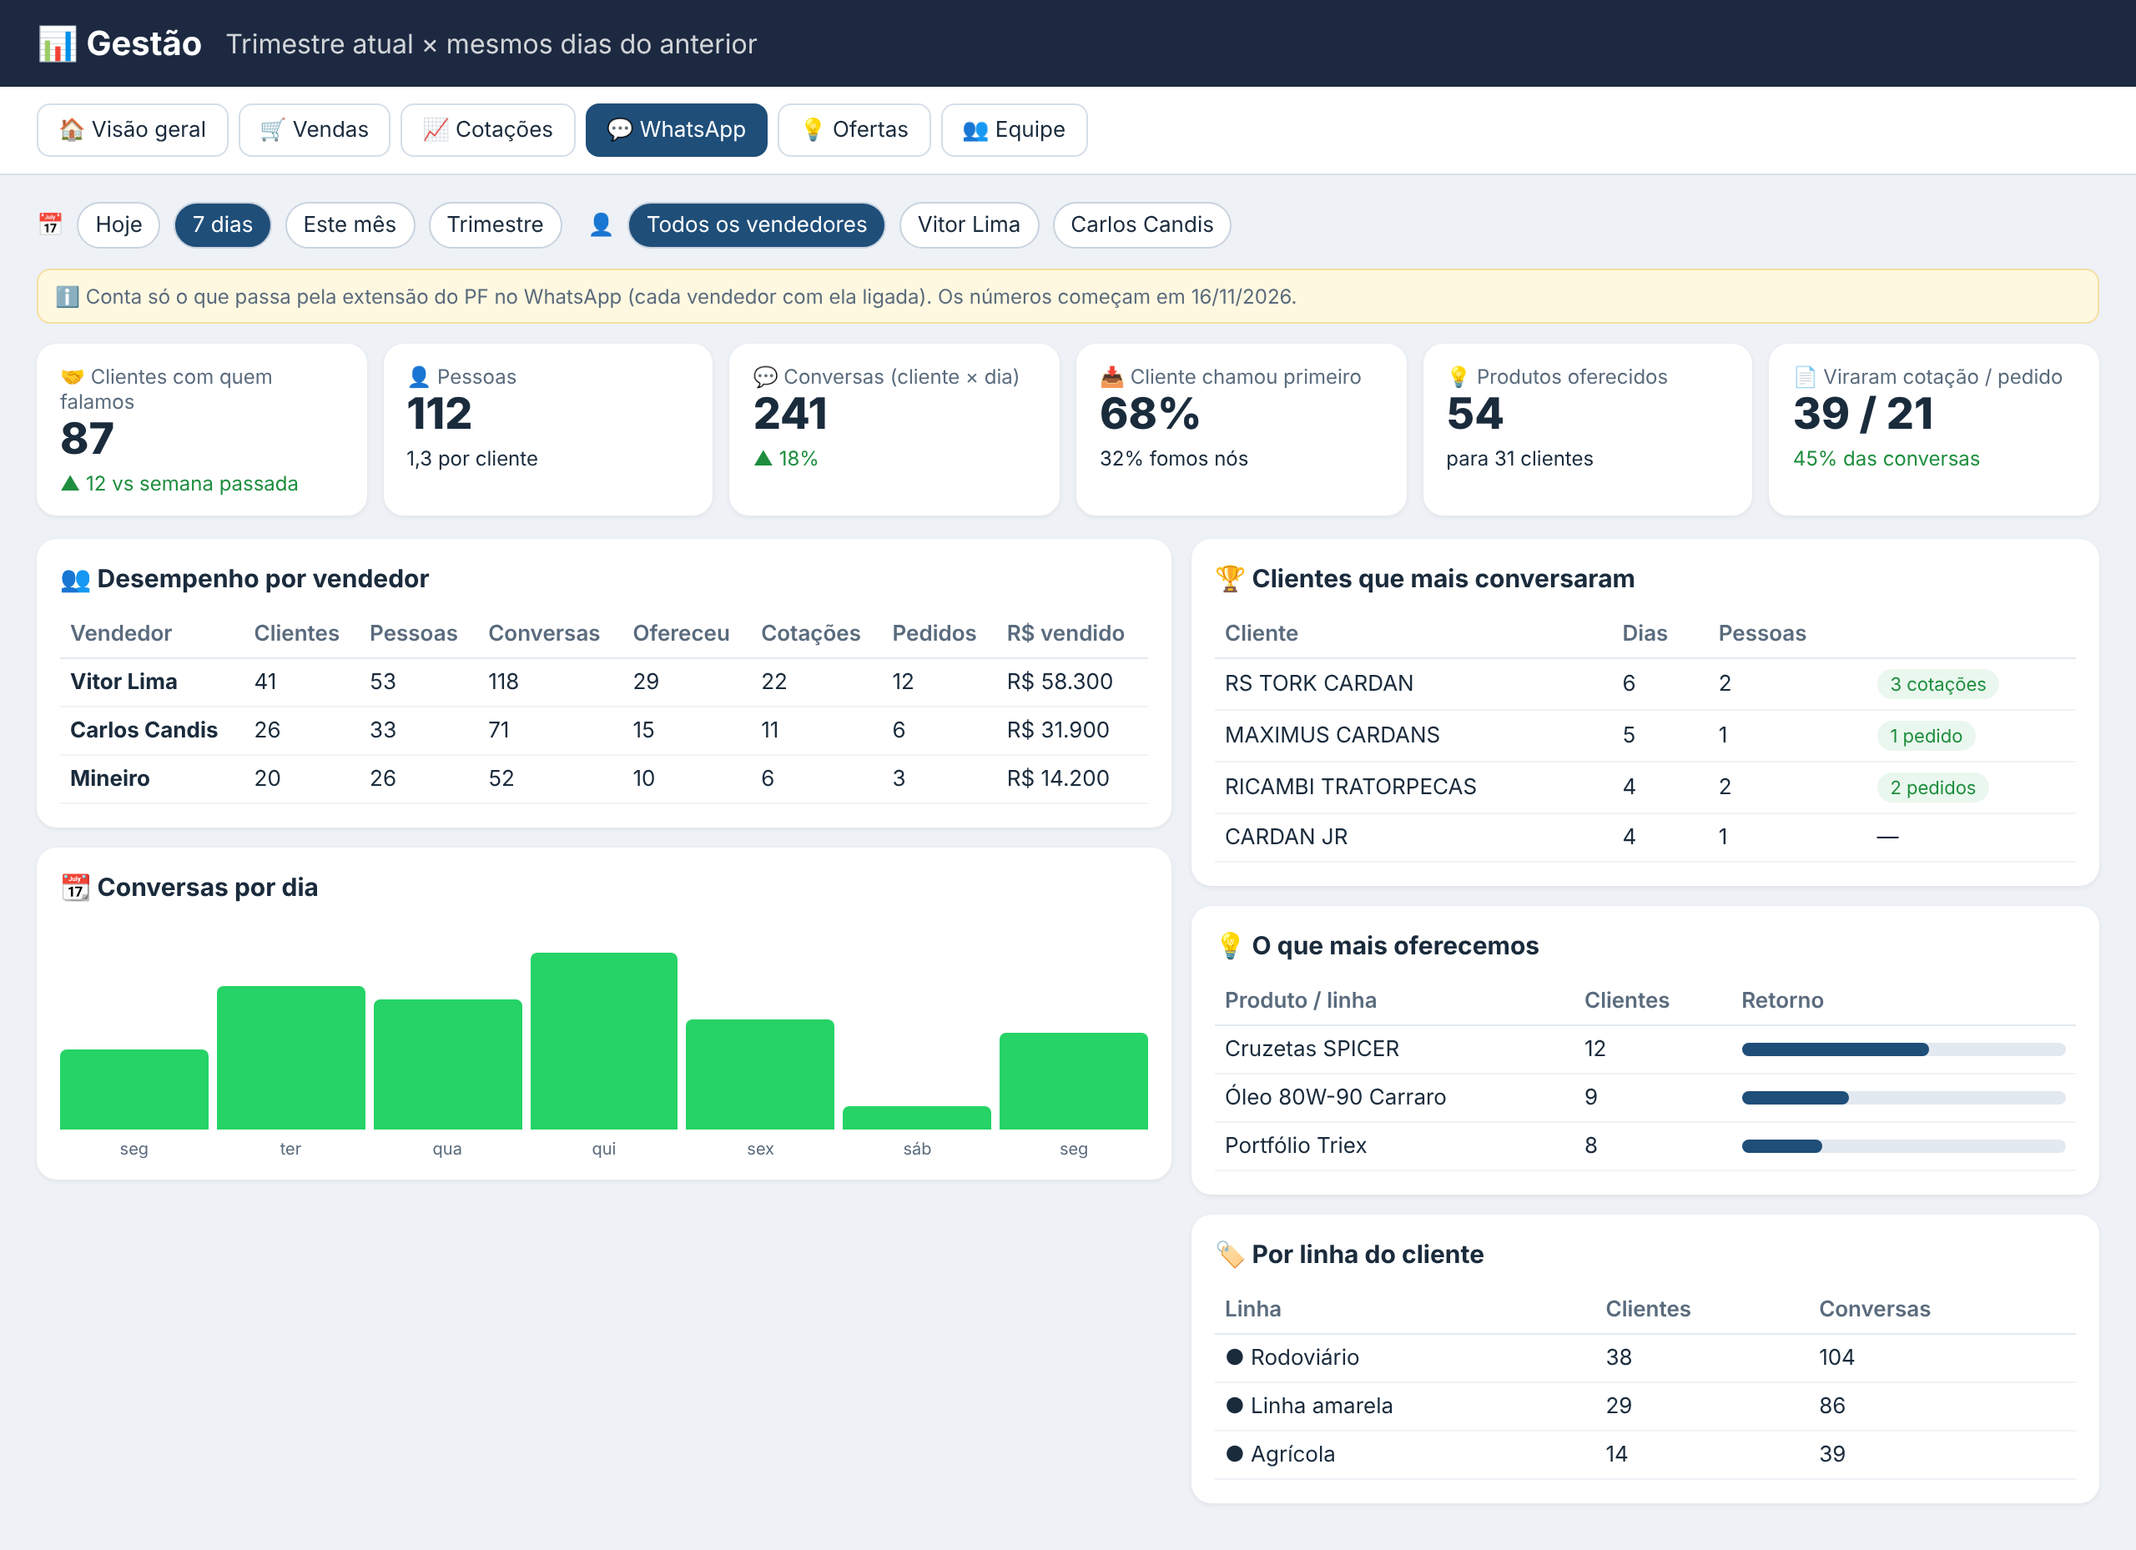
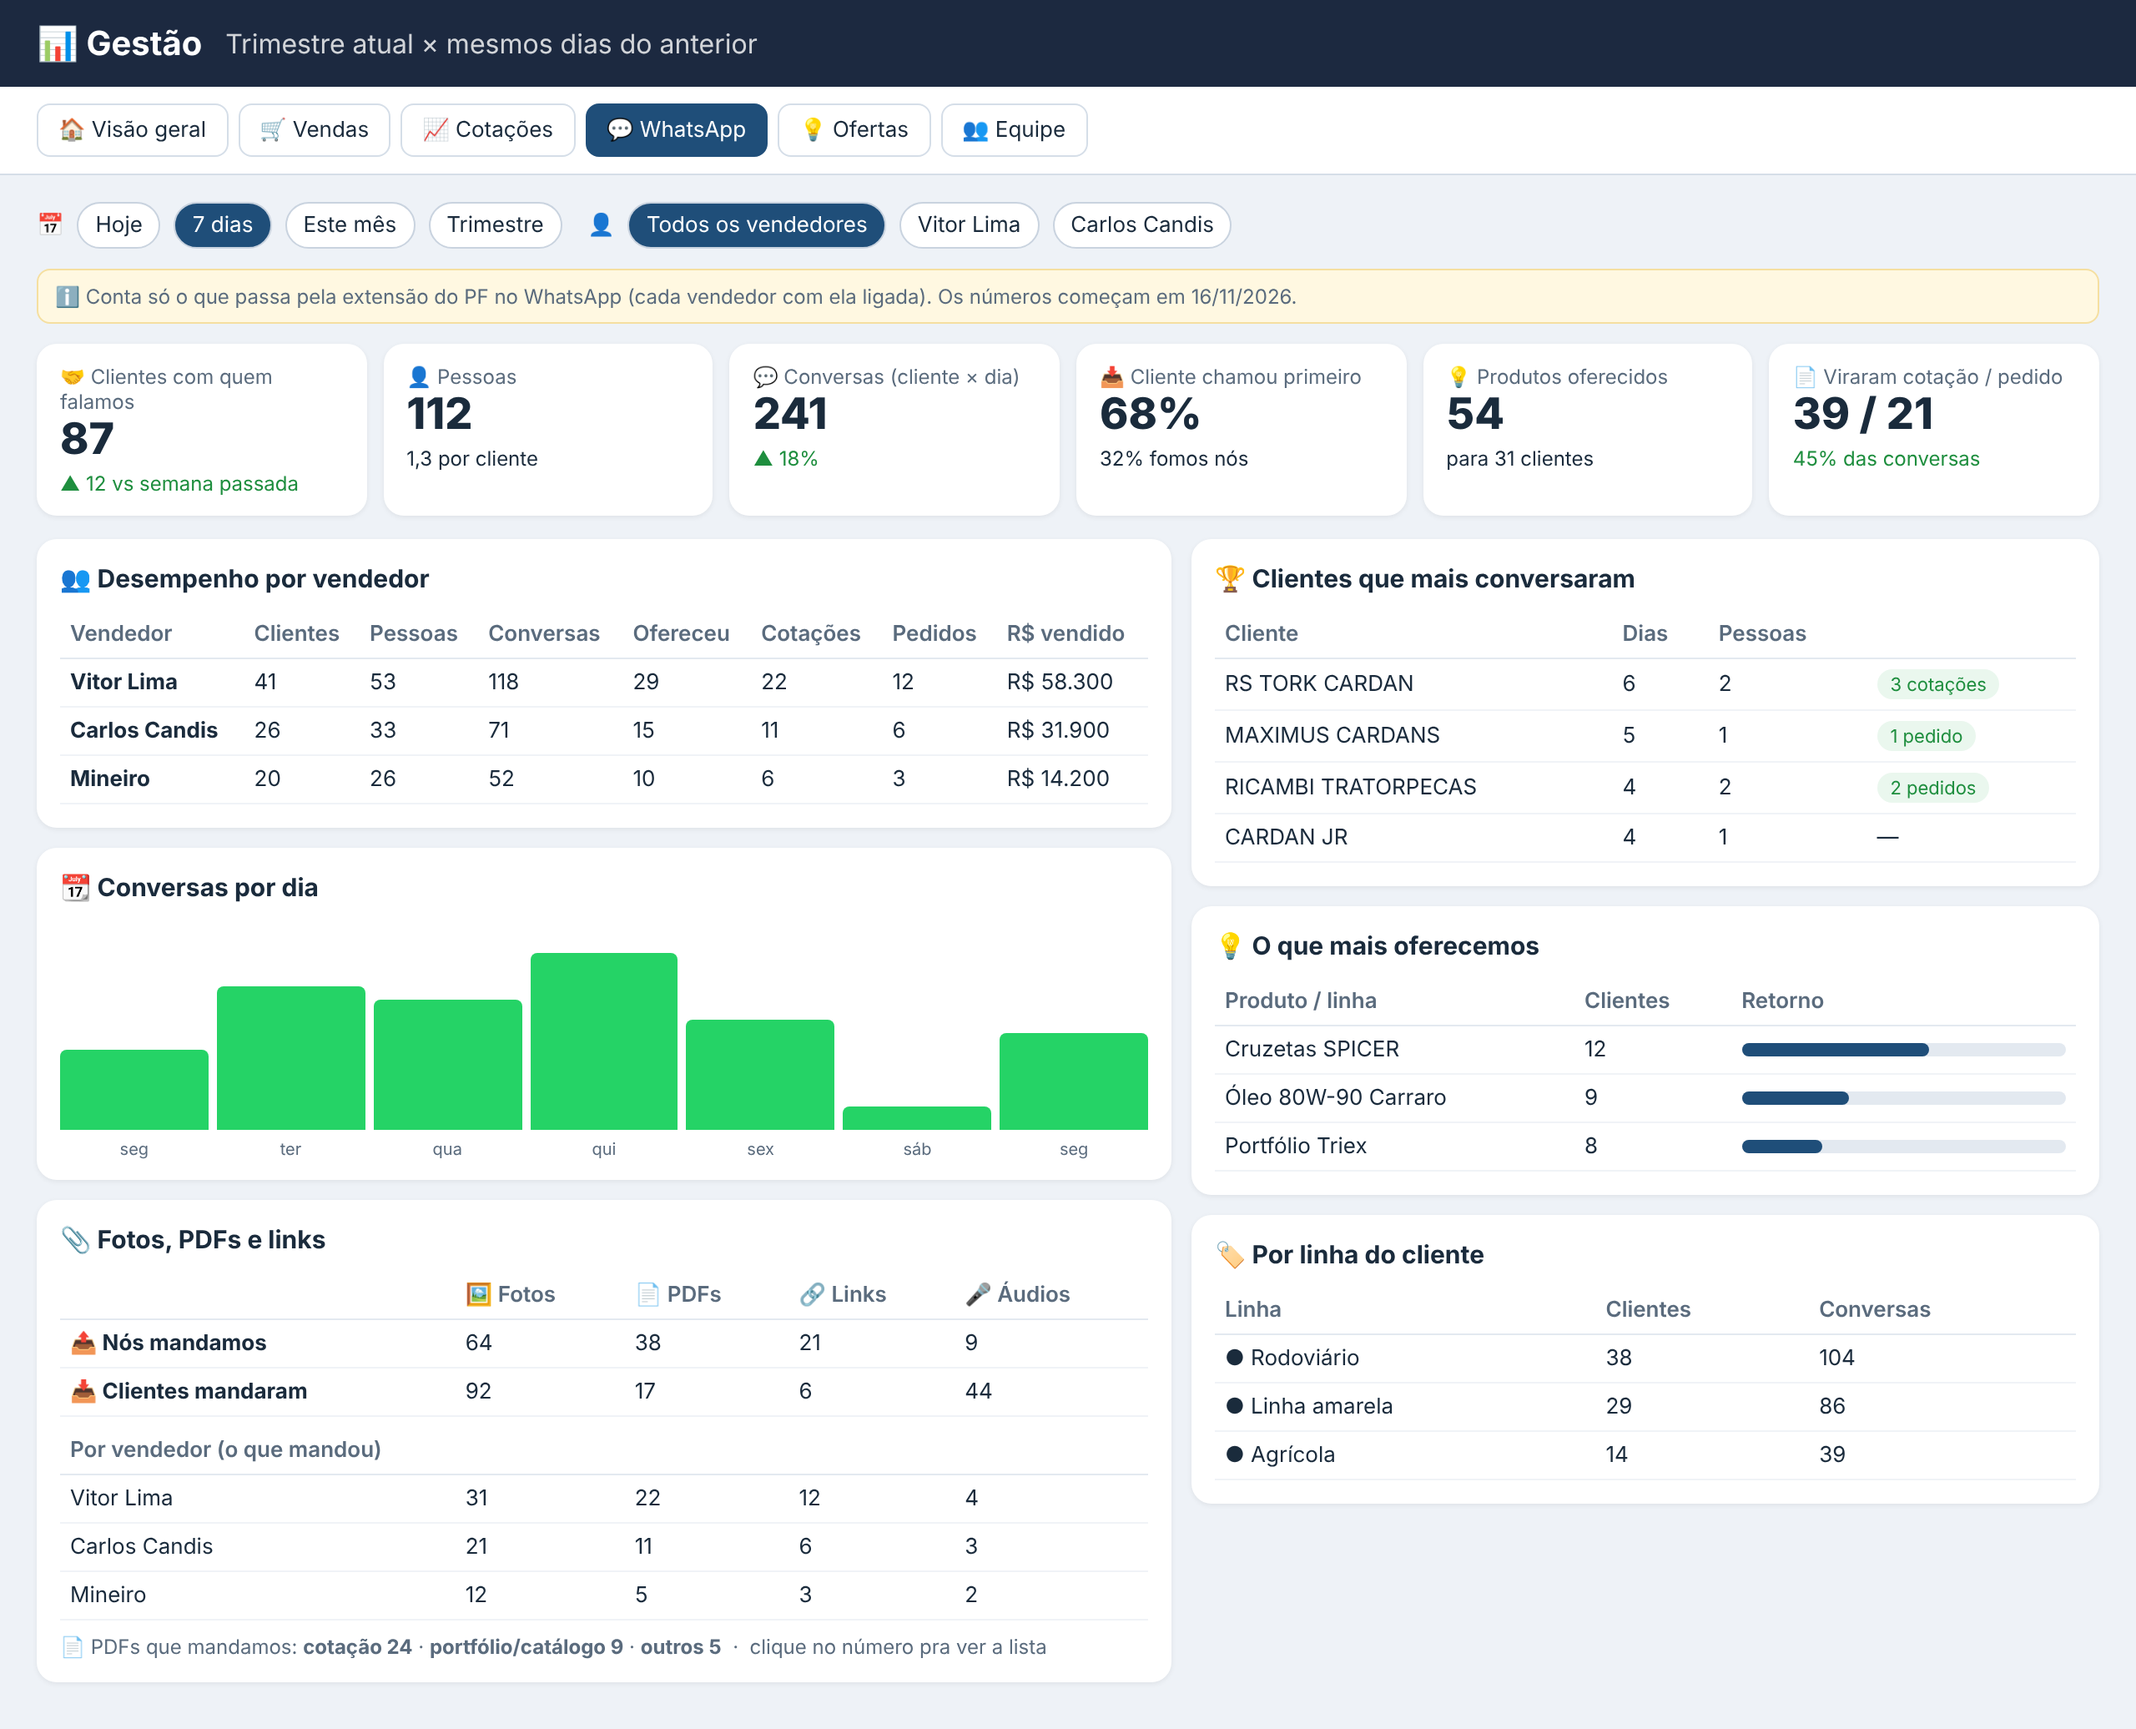
Prévia relatório WhatsApp: fotos, PDFs, links e áudios
Claude-Session: https://claude.ai/code/session_01F72sZme4dRUNihD4LsDtmk

diff --git a/docs/referencias/whatsapp-relatorio/previa.html b/docs/referencias/whatsapp-relatorio/previa.html
@@ -44,6 +44,15 @@ td{padding:6px;border-bottom:1px solid #F0F3F7}
 </table></div>
 <div class="c"><h3>📆 Conversas por dia</h3><div class="bars">
 <div style="height:40%"><span>seg</span></div><div style="height:72%"><span>ter</span></div><div style="height:65%"><span>qua</span></div><div style="height:88%"><span>qui</span></div><div style="height:55%"><span>sex</span></div><div style="height:12%"><span>sáb</span></div><div style="height:48%"><span>seg</span></div></div><div style="height:16px"></div></div>
+<div class="c"><h3>📎 Fotos, PDFs e links</h3><table>
+<tr><th></th><th>🖼 Fotos</th><th>📄 PDFs</th><th>🔗 Links</th><th>🎤 Áudios</th></tr>
+<tr><td><b>📤 Nós mandamos</b></td><td>64</td><td>38</td><td>21</td><td>9</td></tr>
+<tr><td><b>📥 Clientes mandaram</b></td><td>92</td><td>17</td><td>6</td><td>44</td></tr>
+<tr><th colspan="5" style="padding-top:12px">Por vendedor (o que mandou)</th></tr>
+<tr><td>Vitor Lima</td><td>31</td><td>22</td><td>12</td><td>4</td></tr>
+<tr><td>Carlos Candis</td><td>21</td><td>11</td><td>6</td><td>3</td></tr>
+<tr><td>Mineiro</td><td>12</td><td>5</td><td>3</td><td>2</td></tr>
+</table><div style="font-size:12px;color:#5A6B7D;margin-top:8px">📄 PDFs que mandamos: <b>cotação 24</b> · <b>portfólio/catálogo 9</b> · <b>outros 5</b> &nbsp;·&nbsp; clique no número pra ver a lista</div></div>
 </div><div>
 <div class="c"><h3>🏆 Clientes que mais conversaram</h3><table>
 <tr><th>Cliente</th><th>Dias</th><th>Pessoas</th><th></th></tr>
